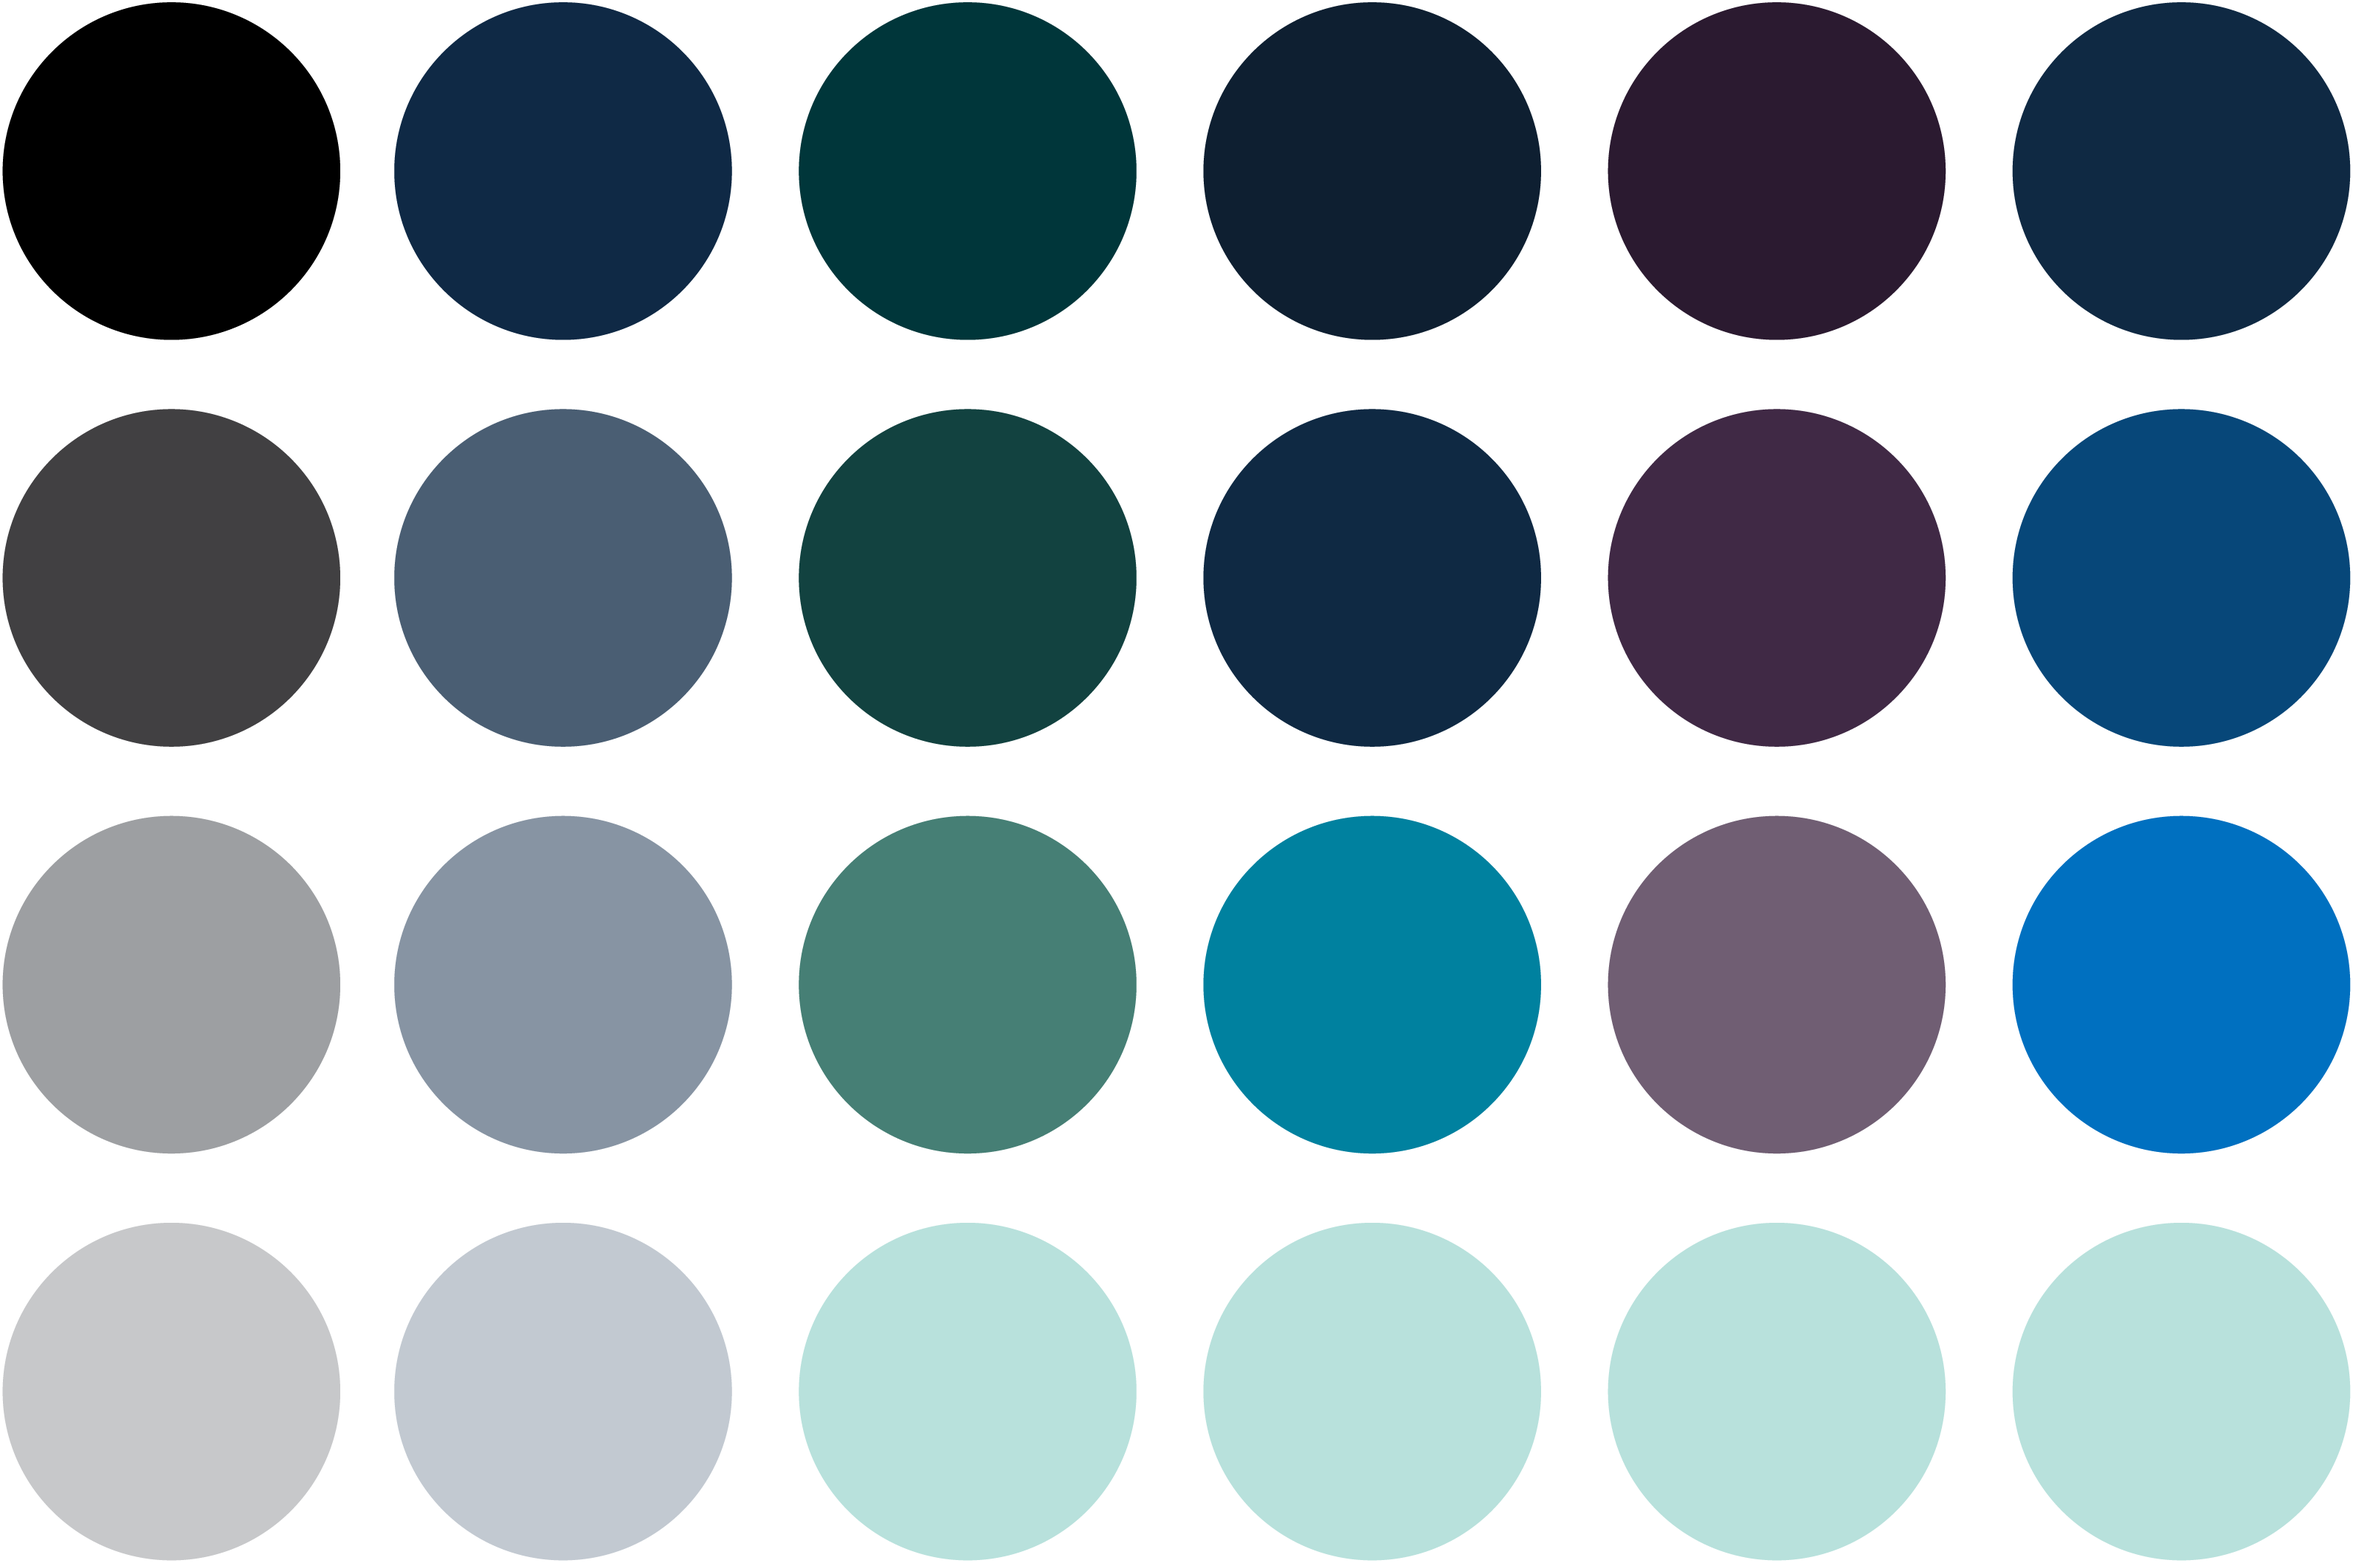
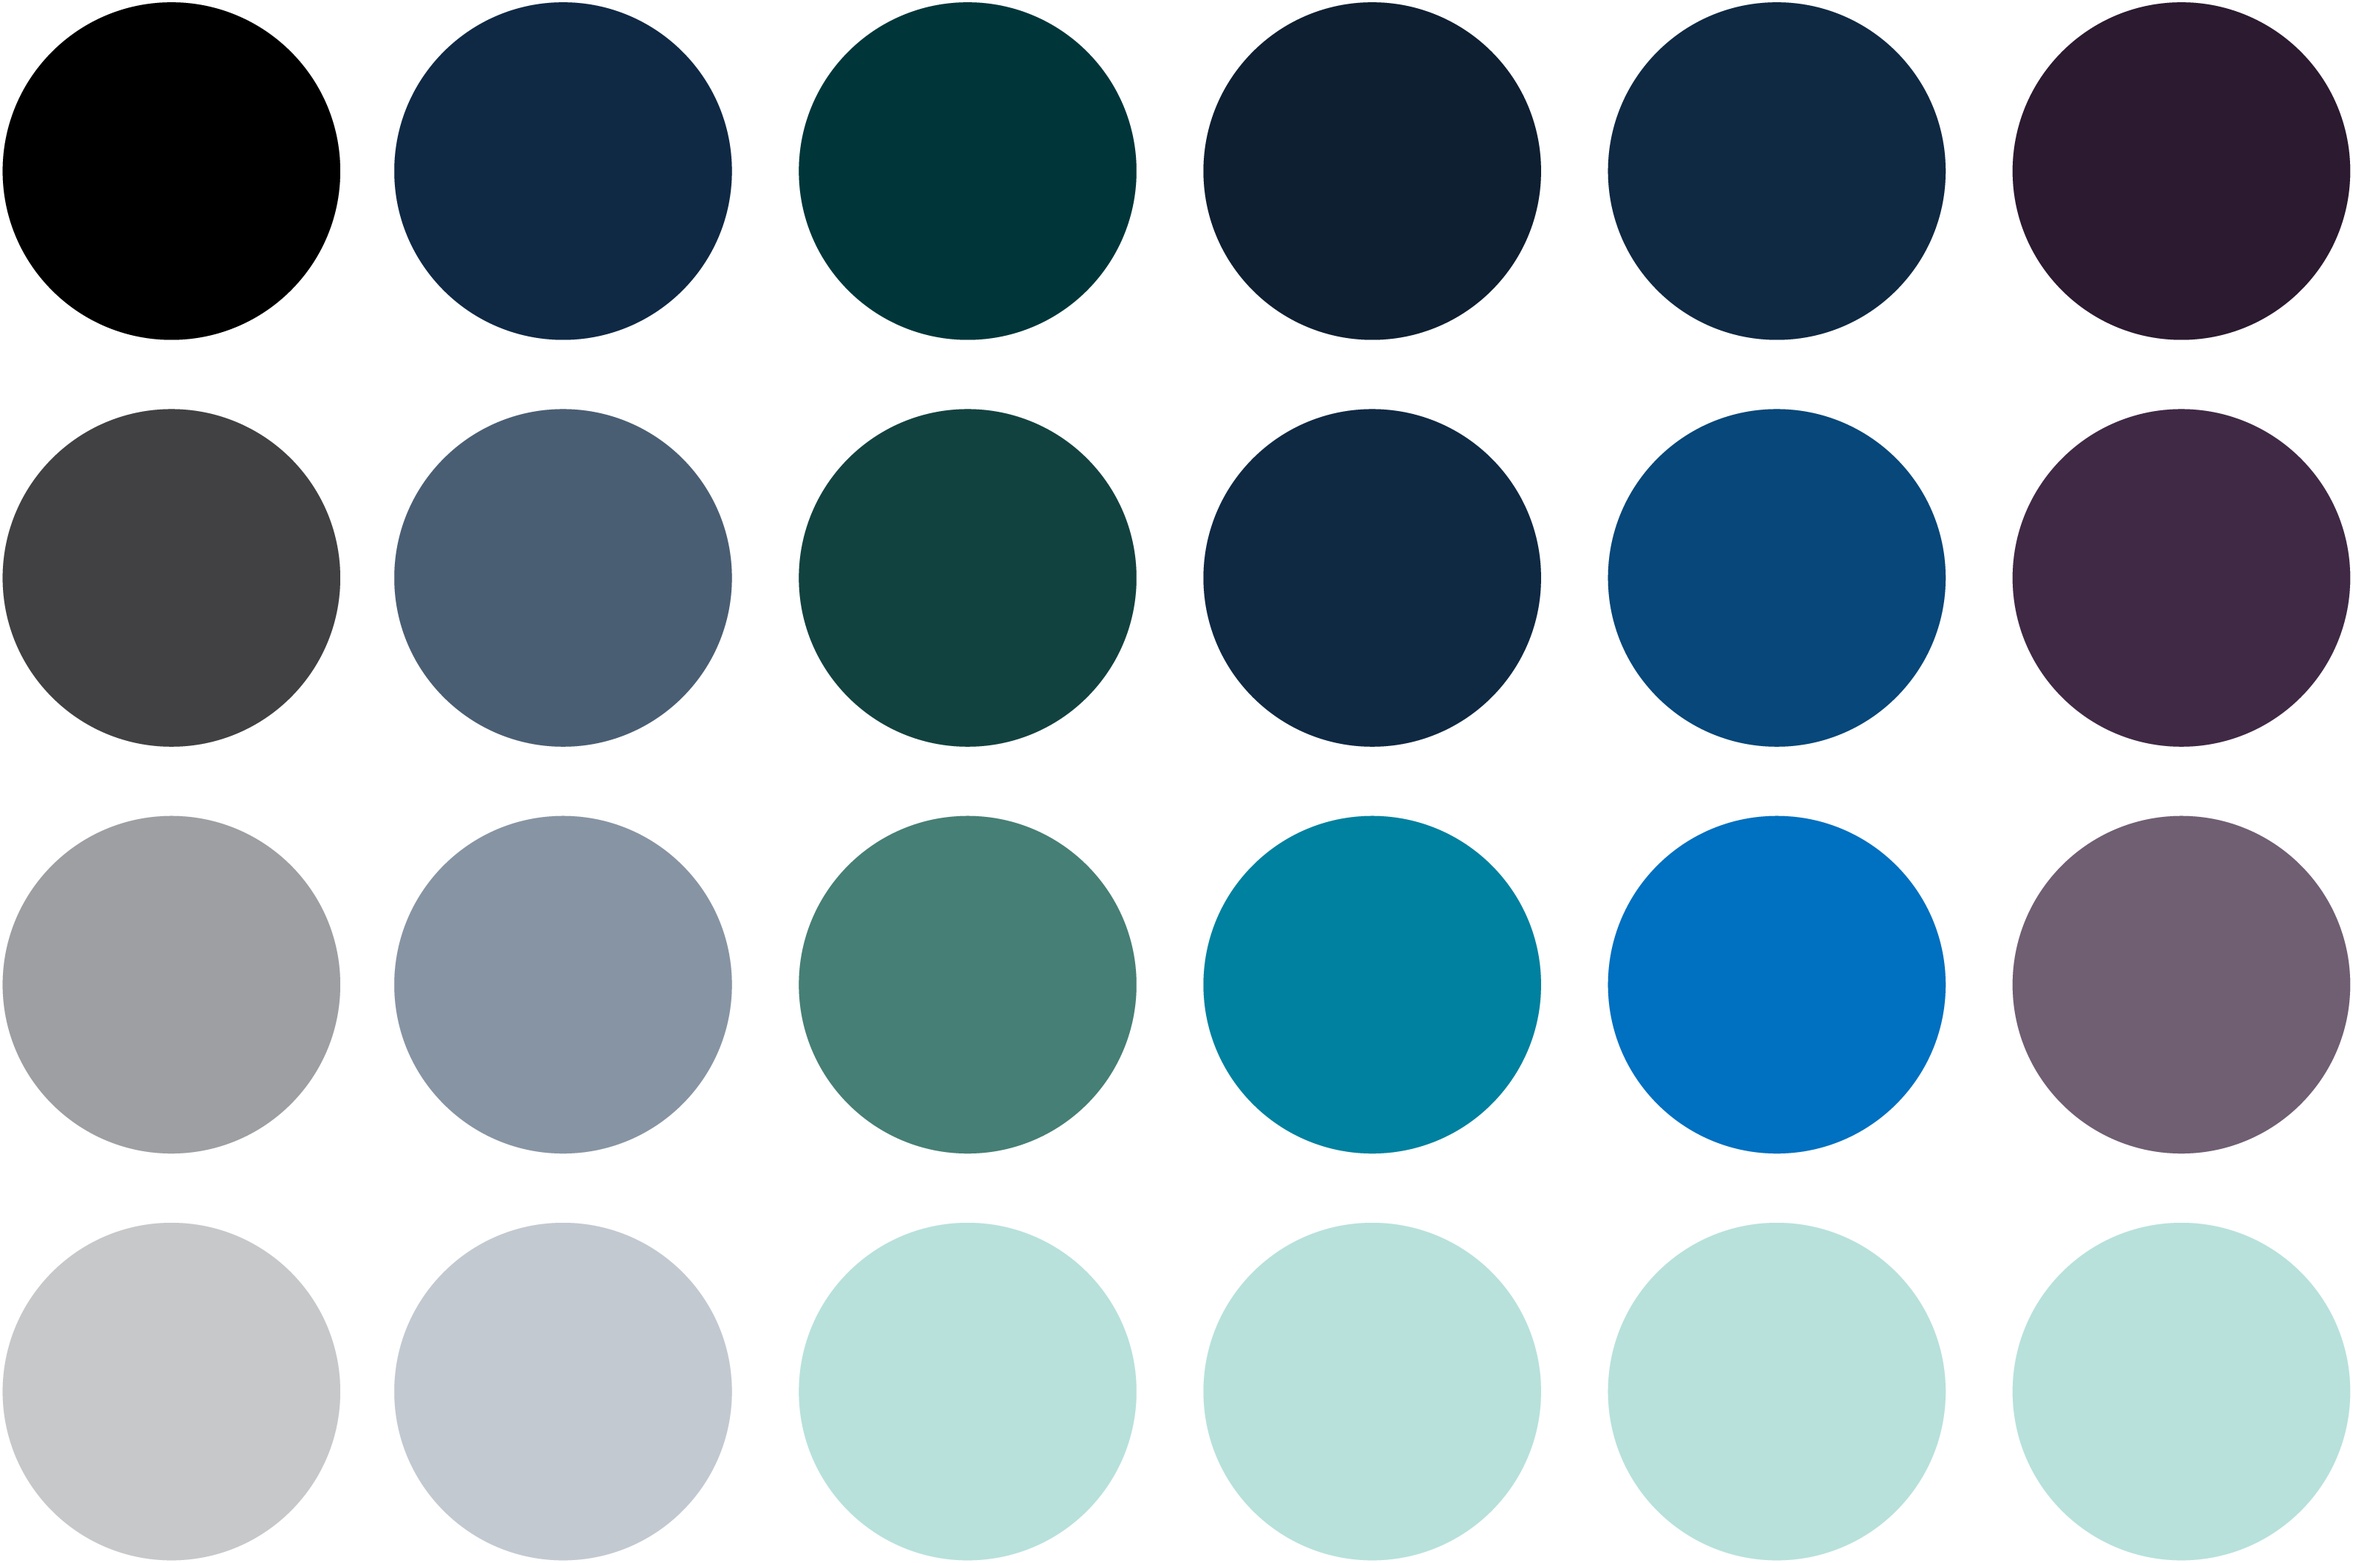
TrialSupport

Changed region(s): [[0.6832, 0.2493, 1.0, 0.7479], [0.6832, 0.0, 1.0, 0.2181]]

diff --git a/2026-multi-channel-brand-campaign-showcase.html b/2026-multi-channel-brand-campaign-showcase.html
@@ -541,7 +541,7 @@
       </section>
 
       <figure class="case-image">
-          <img src="./assets/TS_Render_Jams_CC_Double_Screen_Higlighter.jpg"
+          <img src="./assets/ME-Render-TS-Social-Blog.png"
                alt="TrialSupport brand color system and visual development" loading="lazy" />
           <figcaption>Developing a gem-tone visual system to differentiate TrialSupport in the legal-support market</figcaption>
         </figure>
@@ -550,7 +550,7 @@
       <section class="case-section">
         <div class="case-section-head">
           <figure class="case-image">
-          <img src="./assets/ME-Render-TS-Social-Blog.png"
+          <img src="./assets/TS_Render_Jams_CC_Double_Screen_Higlighter.jpg"
                alt="TrialSupport 3D and AI-generated campaign environment" loading="lazy" />
           <figcaption>Blender-built environments paired with AI-assisted character and campaign imagery</figcaption>
         </figure>
@@ -650,6 +650,16 @@
         </div>
       </section>
 
+       <section class="case-section edu-main-hero">
+        <figure class="case-figure edu-main-hero__figure">
+          <figure class="case-image">
+            <img src="./assets/TS_Render_Emails_3.png"
+                 alt="TrialSupport motion graphics and video content" loading="lazy" />
+            <figcaption>Email Campaign Visuals</figcaption>
+          </figure>
+        </div>
+      </section>
+
       <section class="case-section">
         <div class="case-section-head">
           <div>
@@ -664,12 +674,15 @@
           </p>
         </div>
 
-        <!-- <figure class="case-image">
-          <img src="./assets/TS_Example_3d_Security_Room_2.png"
-               alt="TrialSupport email and blog content ecosystem" loading="lazy" />
-          <figcaption>Coordinated email, blog, social, and downloadable content designed around audience needs</figcaption>
-        </figure>
-      </section> -->
+      <section class="case-section edu-main-hero">
+        <figure class="case-figure edu-main-hero__figure">
+          <figure class="case-image">
+            <img src="./assets/_Senior_partner_Outline_Typing_.png"
+                 alt="TrialSupport motion graphics and video content" loading="lazy" />
+            <figcaption>Blending 3d Environment with Ai generated characters</figcaption>
+          </figure>
+        </div>
+      </section>
 
       <section class="case-section">
         <div class="case-section-head">
